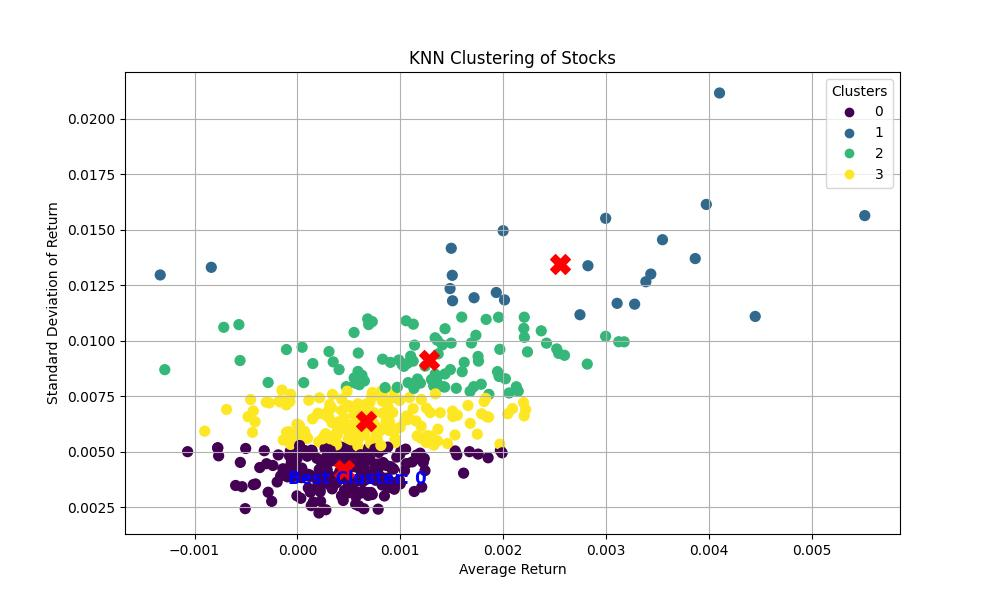
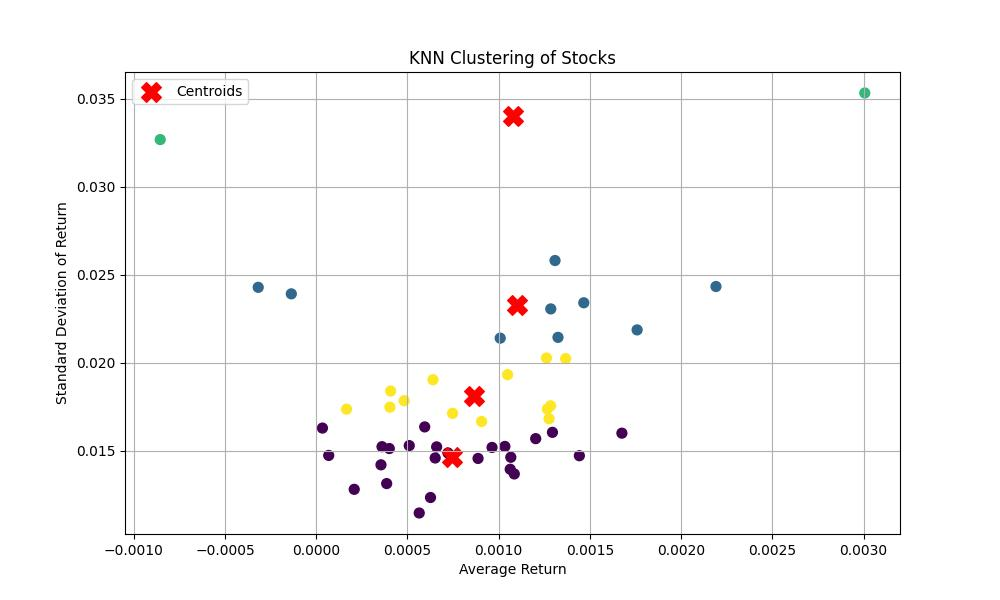
changes

diff --git a/Option_Template/Template.py b/Option_Template/Template.py
@@ -68,10 +68,10 @@ class algoLogic(optOverNightAlgoLogic):
         )
 
         # Strategy Parameters
-        callEntryAllow = True
-        putEntryAllow = True        
+        callEntryAllow = True       
         lastIndexTimeData = [0, 0]
         last5MinIndexTimeData = [0, 0]
+        list1 = []
 
 
         Currentexpiry = getExpiryData(startEpoch, baseSym)['CurrentExpiry']
@@ -120,89 +120,67 @@ class algoLogic(optOverNightAlgoLogic):
             # Calculate and update PnL
             self.pnlCalculator()
 
-            if self.humanTime.date() == expiryDatetime.date() :
-                Currentexpiry = getExpiryData(self.timeData+86400, baseSym)['CurrentExpiry']
+            if self.humanTime.date() > expiryDatetime.date() :
+                Currentexpiry = getExpiryData(self.timeData, baseSym)['CurrentExpiry']
                 expiryDatetime = datetime.strptime(Currentexpiry, "%d%b%y").replace(hour=15, minute=20)
                 expiryEpoch= expiryDatetime.timestamp()
-                
+
+            if (timeData-60) in df.index and callEntryAllow==False:
+                    try:
+                        data = self.fetchAndCacheFnoHistData(
+                            callSym , lastIndexTimeData[1])
+                    except Exception as e:
+                        self.strategyLogger.info(e)
+                    
+
+                    list1.append(data["c"])
 
             # Check for exit conditions and execute exit orders
-            if not self.openPnl.empty:
-                for index, row in self.openPnl.iterrows():
+            # if not self.openPnl.empty:
+            #     for index, row in self.openPnl.iterrows():
 
-                    symSide = row["Symbol"]
-                    symSide = symSide[len(symSide) - 2:]
+            #         symSide = row["Symbol"]
+            #         symSide = symSide[len(symSide) - 2:]
       
-                    if row["CurrentPrice"] <= row["Target"]:
-                        exitType = "Target Hit"
-                        self.exitOrder(index, exitType, row["CurrentPrice"])
+            #         if row["CurrentPrice"] <= row["Target"]:
+            #             exitType = "Target Hit"
+            #             self.exitOrder(index, exitType, row["CurrentPrice"])
 
-                    elif row["CurrentPrice"] >= row["Stoploss"]:
-                        exitType = "Stoploss Hit"
-                        self.exitOrder(index, exitType, row["CurrentPrice"])
+            #         elif row["CurrentPrice"] >= row["Stoploss"]:
+            #             exitType = "Stoploss Hit"
+            #             self.exitOrder(index, exitType, row["CurrentPrice"])
 
-                    elif self.timeData >= row["Expiry"]:
-                        exitType = "Time Up"
-                        self.exitOrder(index, exitType)
+            #         elif self.timeData >= row["Expiry"]:
+            #             exitType = "Time Up"
+            #             self.exitOrder(index, exitType)
     
 
-            tradecount = self.openPnl['Symbol'].str[-2:].value_counts()
-            callCounter= tradecount.get('CE',0)
-            putCounter= tradecount.get('PE',0)
+            # tradecount = self.openPnl['Symbol'].str[-2:].value_counts()
+            # callCounter= tradecount.get('CE',0)
+            # putCounter= tradecount.get('PE',0)
 
             # Check for entry signals and execute orders
-            if ((timeData-300) in df_5min.index):
-                if df_5min.at[last5MinIndexTimeData[1], "rsiCross50"] == 1:
-                    callEntryAllow = True
-                    putEntryAllow = True
-                
-                if (callCounter < 3) and (callEntryAllow):
-                    if df_5min.at[last5MinIndexTimeData[1], "rsiCross40"] == 1 and df_5min.at[last5MinIndexTimeData[1], "Supertrend"] ==-1:
-                        callSym = self.getCallSym(
-                            self.timeData, baseSym, df_5min.at[last5MinIndexTimeData[1], "c"],expiry= Currentexpiry)
+            if ((timeData-60) in df.index):
+                if callEntryAllow:
+                    callSym = self.getCallSym(
+                        self.timeData, baseSym, df.at[lastIndexTimeData[1], "c"],expiry= Currentexpiry)
+                    
+                    callEntryAllow = False
 
-                        try:
-                            data = self.fetchAndCacheFnoHistData(
-                                callSym, last5MinIndexTimeData[1])
-                        except Exception as e:
-                            self.strategyLogger.info(e)
 
-                        target = 0.3 * data["c"]
-                        stoploss = 1.3 * data["c"]
-
-                        self.entryOrder(data["c"], callSym, lotSize, "SELL", {
-                                        "Target": target,
-                                        "Stoploss": stoploss,
-                                        "Expiry": expiryEpoch, }
-                                        )
-                        callEntryAllow = False
-
-                if (putCounter < 3) and (putEntryAllow):       
-                    if df_5min.at[last5MinIndexTimeData[1], "rsiCross60"] == 1 and df_5min.at[last5MinIndexTimeData[1], "Supertrend"] ==1:
-                        putSym = self.getPutSym(
-                            self.timeData, baseSym, df_5min.at[last5MinIndexTimeData[1], "c"],expiry= Currentexpiry)
-
-                        try:
-                            data = self.fetchAndCacheFnoHistData(
-                                putSym, lastIndexTimeData[1])
-                        except Exception as e:
-                            self.strategyLogger.info(e)
-
-                        target = 0.3 * data["c"]
-                        stoploss = 1.3 * data["c"]
-
-                        self.entryOrder(data["c"], putSym, 5*lotSize, "SELL", {
-                                        "Target": target,
-                                        "Stoploss": stoploss,
-                                        "Expiry": expiryEpoch, },
-                                        )
-                        putEntryAllow = False
-
+                    try:
+                        data = self.fetchAndCacheFnoHistData(
+                            callSym , lastIndexTimeData[1])
+                    except Exception as e:
+                        self.strategyLogger.info(e)
+                    
+                    list1.append(data["c"])
 
 
         # Calculate final PnL and combine CSVs
         self.pnlCalculator()
         self.combinePnlCsv()
+        print(list1)
 
         return self.closedPnl, self.fileDir["backtestResultsStrategyUid"]
 
@@ -216,8 +194,8 @@ if __name__ == "__main__":
     version = "v1"
 
     # Define Start date and End date
-    startDate = datetime(2023, 1, 1, 9, 15)
-    endDate = datetime(2023, 1, 25, 15, 30)
+    startDate = datetime(2025, 5, 1, 9, 15)
+    endDate = datetime(2025, 5, 25, 15, 30)
 
     # Create algoLogic object
     algo = algoLogic(devName, strategyName, version)

diff --git a/Research/fetchdata.py b/Research/fetchdata.py
@@ -1,0 +1,147 @@
+import numpy as np
+import talib as ta
+import pandas as pd
+from backtestTools.expiry import getExpiryData
+from datetime import datetime, time, timedelta
+from backtestTools.algoLogic import optOverNightAlgoLogic
+from backtestTools.util import calculateDailyReport, limitCapital, generateReportFile
+from backtestTools.histData import getFnoBacktestData
+
+def extract_monthly_call_and_index_close(startDate, endDate, baseSym, indexSym, strike=25000):
+    # 1. Get monthly expiry for the start date
+    expiry_info = getExpiryData(startDate.timestamp(), baseSym)
+    monthly_expiry = expiry_info['MonthlyExpiry']
+    expiry_date = datetime.strptime(monthly_expiry, "%d%b%y").replace(hour=15, minute=30)
+
+    # 2. Build call symbol for the monthly expiry at strike 25000
+    call_symbol = f"{baseSym}{expiry_date.strftime('%y%b').upper()}CE{strike}"  # Use 'CE' for call option
+    print("Fetching data for call symbol:", call_symbol)
+
+    # 3. Fetch 5-min data for the call option and NIFTY 50
+    call_df = getFnoBacktestData(call_symbol, startDate.timestamp(), endDate.timestamp(), "5Min")
+    index_df = getFnoBacktestData(indexSym, startDate.timestamp(), endDate.timestamp(), "5Min")
+
+    # Check if data is fetched
+    if call_df is None or index_df is None:
+        print("Data not found for:", call_symbol, "or", indexSym)
+        return
+
+    # 4. Drop missing values
+    call_df = call_df.dropna(subset=["c"])
+    index_df = index_df.dropna(subset=["c"])
+
+    # 5. Align both DataFrames on timestamp
+    merged = pd.DataFrame({
+        "timestamp": call_df.index,
+        "call_close": call_df["c"].values,
+        "nifty_close": index_df.reindex(call_df.index)["c"].values
+    })
+
+    # 6. Save to CSV
+    merged.to_csv(f"MonthlyExpiry_{call_symbol}_NIFTY50_Close.csv", index=False)
+    print("Saved:", f"MonthlyExpiry_{call_symbol}_NIFTY50_Close.csv")
+
+def fetch_april_2024_nifty_call_and_index():
+    # Fixed parameters for April 2024
+    startDate = datetime(2024, 4, 1, 9, 15)
+    endDate = datetime(2024, 4, 30, 15, 30)
+    baseSym = "NIFTY"
+    indexSym = "NIFTY 50"
+    strike = 22500  # Change this if you want a different strike
+
+    # Get April 2024 expiry
+    expiry_info = getExpiryData(startDate.timestamp(), baseSym)
+    monthly_expiry = expiry_info['MonthlyExpiry']
+    expiry_date = datetime.strptime(monthly_expiry, "%d%b%y").replace(hour=15, minute=30)
+
+    # Build call symbol (adjust if your data uses a different format)
+    call_symbol = f"{baseSym}{expiry_date.strftime('%y%b').upper()}CE{strike}"
+    print("Fetching data for call symbol:", call_symbol)
+
+    # Fetch 5-min data
+    call_df = getFnoBacktestData(call_symbol, startDate.timestamp(), endDate.timestamp(), "5Min")
+    index_df = getFnoBacktestData(indexSym, startDate.timestamp(), endDate.timestamp(), "5Min")
+
+    if call_df is None or index_df is None:
+        print("Data not found for:", call_symbol, "or", indexSym)
+        return
+
+    call_df = call_df.dropna(subset=["c"])
+    index_df = index_df.dropna(subset=["c"])
+
+    merged = pd.DataFrame({
+        "timestamp": call_df.index,
+        "call_close": call_df["c"].values,
+        "nifty_close": index_df.reindex(call_df.index)["c"].values
+    })
+
+    merged.to_csv(f"NIFTY_Apr2024_{strike}CE_and_Index_5min.csv", index=False)
+    print("Saved: NIFTY_Apr2024_{strike}CE_and_Index_5min.csv")
+
+def try_symbol_formats(baseSym, expiry_date, strike):
+    # Try common symbol formats for NIFTY options
+    formats = [
+        f"{baseSym}{expiry_date.strftime('%y%b').upper()}CE{strike}",
+        f"{baseSym}{expiry_date.strftime('%y%b').upper()}C{strike}",
+        f"{baseSym}{expiry_date.strftime('%d%b%y').upper()}CE{strike}",
+        f"{baseSym}{expiry_date.strftime('%d%b%y').upper()}C{strike}",
+        f"{baseSym}{expiry_date.strftime('%y%b').upper()}{strike}CE",
+        f"{baseSym}{expiry_date.strftime('%y%b').upper()}{strike}C",
+        f"{baseSym}{expiry_date.strftime('%d%b%y').upper()}{strike}CE",
+        f"{baseSym}{expiry_date.strftime('%d%b%y').upper()}{strike}C",
+    ]
+    return formats
+
+def fetch_monthly_nifty_call_and_index(start_year=2025, start_month=1, end_year=2025, end_month=4, strike=24000):
+    baseSym = "NIFTY"
+    indexSym = "NIFTY 50"
+    for year in range(start_year, end_year + 1):
+        for month in range(1, 13):
+            if year == end_year and month > end_month:
+                break
+            if year == start_year and month < start_month:
+                continue
+            # 1st day and last day of the month
+            startDate = datetime(year, month, 1, 9, 15)
+            if month == 12:
+                endDate = datetime(year + 1, 1, 1, 9, 15) - pd.Timedelta(minutes=5)
+            else:
+                endDate = datetime(year, month + 1, 1, 9, 15) - pd.Timedelta(minutes=5)
+            # Get expiry info
+            expiry_info = getExpiryData(startDate.timestamp(), baseSym)
+            monthly_expiry = expiry_info.get('MonthlyExpiry')
+            if not monthly_expiry:
+                print(f"No expiry info for {year}-{month:02d}")
+                continue
+            expiry_date = datetime.strptime(monthly_expiry, "%d%b%y").replace(hour=15, minute=30)
+            # Try all symbol formats
+            found = False
+            for call_symbol in try_symbol_formats(baseSym, expiry_date, strike):
+                print(f"Trying symbol: {call_symbol}")
+                call_df = getFnoBacktestData(call_symbol, startDate.timestamp(), endDate.timestamp(), "5Min")
+                index_df = getFnoBacktestData(indexSym, startDate.timestamp(), endDate.timestamp(), "5Min")
+                if call_df is not None and index_df is not None and not call_df.empty and not index_df.empty:
+                    call_df = call_df.dropna(subset=["c"])
+                    index_df = index_df.dropna(subset=["c"])
+                    merged = pd.DataFrame({
+                        "timestamp": call_df.index,
+                        "call_close": call_df["c"].values,
+                        "nifty_close": index_df.reindex(call_df.index)["c"].values
+                    })
+                    fname = f"NIFTY_{year}{month:02d}_{strike}CE_and_Index_5min.csv"
+                    merged.to_csv(fname, index=False)
+                    print(f"Saved: {fname}")
+                    found = True
+                    break
+            if not found:
+                print(f"No data found for {year}-{month:02d} at strike {strike}")
+
+# Example usage:
+if __name__ == "__main__":
+    startDate = datetime(2025, 4, 1, 9, 15)
+    endDate = datetime(2025, 4, 22, 15, 30)
+    baseSym =  "NIFTY"
+    indexSym = "NIFTY 50"
+    extract_monthly_call_and_index_close(startDate, endDate, baseSym, indexSym, strike=24000)
+    fetch_april_2024_nifty_call_and_index()
+    fetch_monthly_nifty_call_and_index(start_year=2025, start_month=1, end_year=2025, end_month=4, strike=24000)

diff --git a/Research/option_data_fetch.py b/Research/option_data_fetch.py
@@ -1,0 +1,37 @@
+from backtestTools.histData import getFnoBacktestData
+from backtestTools.expiry import getExpiryData
+from datetime import datetime, timedelta
+
+# Set parameters
+baseSym = "NIFTY"
+indexName = "NIFTY 50"
+startDate = datetime(2025, 5, 1, 9, 15)
+endDate = datetime(2025, 5, 31, 15, 30)  # One month duration
+
+# Convert to epoch
+startEpoch = startDate.timestamp()
+endEpoch = endDate.timestamp()
+
+# Change expiry from CurrentExpiry to MonthlyExpiry
+monthlyExpiry = getExpiryData(startEpoch, baseSym)['MonthlyExpiry']
+expiryDatetime = datetime.strptime(monthlyExpiry, "%d%b%y").replace(hour=15, minute=20)
+expiryEpoch = expiryDatetime.timestamp()
+
+# Fetch one callSymbol
+# Assume ATM price of 18000 for NIFTY
+# This method may differ based on your actual implementation
+strikePrice = 25000
+data = fetchAndCacheFnoHistData( callSym , lastIndexTimeData[1])
+callSym = int(row['Symbol'][-7:-2])
+
+# Fetch FNO data for the callSymbol at 5-min interval
+callData_5min = getFnoBacktestData(callSym, startEpoch, endEpoch, "5Min")
+
+# Fetch NIFTY 50 index data at 5-min interval for the same time range
+nifty_5min = getFnoBacktestData(indexName, startEpoch, endEpoch, "5Min")
+
+# Save or return the data
+callData_5min.to_csv("callSymbol_data.csv")
+nifty_5min.to_csv("nifty50_data.csv")
+
+print("Data saved for call symbol and NIFTY 50 at 5-minute interval.")

diff --git a/Research/gamma.py b/Research/gamma.py
@@ -1,0 +1,17 @@
+import pandas as pd
+
+# Load your data
+df = pd.read_csv('NIFTY_202501_24000CE_and_Index_5min.csv')
+
+# Convert epoch (UTC) to datetime in IST (UTC+5:30)
+df['datetime_IST'] = pd.to_datetime(df['timestamp'], unit='s', utc=True).dt.tz_convert('Asia/Kolkata')
+
+# Calculate Delta
+df['delta'] = (df['call_close'] - df['call_close'].shift(1)) / (df['nifty_close'] - df['nifty_close'].shift(1))
+df['delta'] = df['delta'].clip(lower=0, upper=1)  # Keep Delta in [0, 1]
+
+# Calculate Gamma
+df['gamma'] = (df['delta'] - df['delta'].shift(1)) / (df['nifty_close'] - df['nifty_close'].shift(1))
+df['gamma'] = df['gamma'].clip(lower=0)  # Gamma should be >= 0
+
+df.to_csv('delta_gamma.csv', index=False)

diff --git a/Research/straddle_arbitrage/08-05-2025/sensex/dfstraddle.py b/Research/straddle_arbitrage/08-05-2025/sensex/dfstraddle.py
@@ -202,8 +202,8 @@ if __name__ == "__main__":
     strategyName = "Testing"
     version = "v1"
 
-    startDate = datetime(2025, 5, 8, 9, 16)
-    endDate = datetime(2025, 5, 8, 15, 29)
+    startDate = datetime(2025, 5, 15, 9, 16)
+    endDate = datetime(2025, 5, 15, 15, 29)
 
     algo = algoLogic(devName, strategyName, version)
 

diff --git a/Research/straddle_arbitrage/24-04-2025/Nifty/dfstraddle.py b/Research/straddle_arbitrage/24-04-2025/Nifty/dfstraddle.py
@@ -203,8 +203,8 @@ if __name__ == "__main__":
     strategyName = "Testing"
     version = "v1"
 
-    startDate = datetime(2025, 5, 8, 9, 16)
-    endDate = datetime(2025, 5, 8, 15, 00)
+    startDate = datetime(2025, 5, 15, 9, 16)
+    endDate = datetime(2025, 5, 15, 15, 00)
 
     algo = algoLogic(devName, strategyName, version)
 

diff --git a/ML/KNN/KNN_1.py b/ML/KNN/KNN_1.py
@@ -77,7 +77,7 @@ def plot_clusters(data, kmeans, output_path):
 # Main function
 def main():
     # Load stock names
-    stock_file = "/root/aniket/vwap/stockNifty200.md"
+    stock_file = "/root/aniket/stockNames/nifty_50.md"
     stocks = load_stock_names(stock_file)
 
     # Define start and end dates
